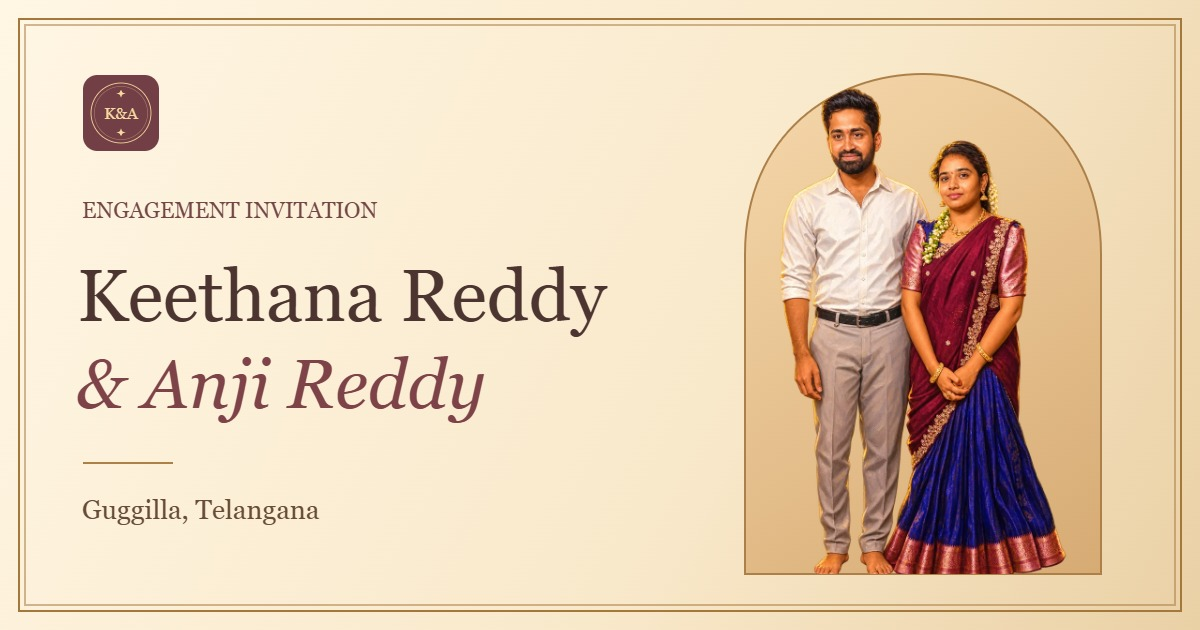
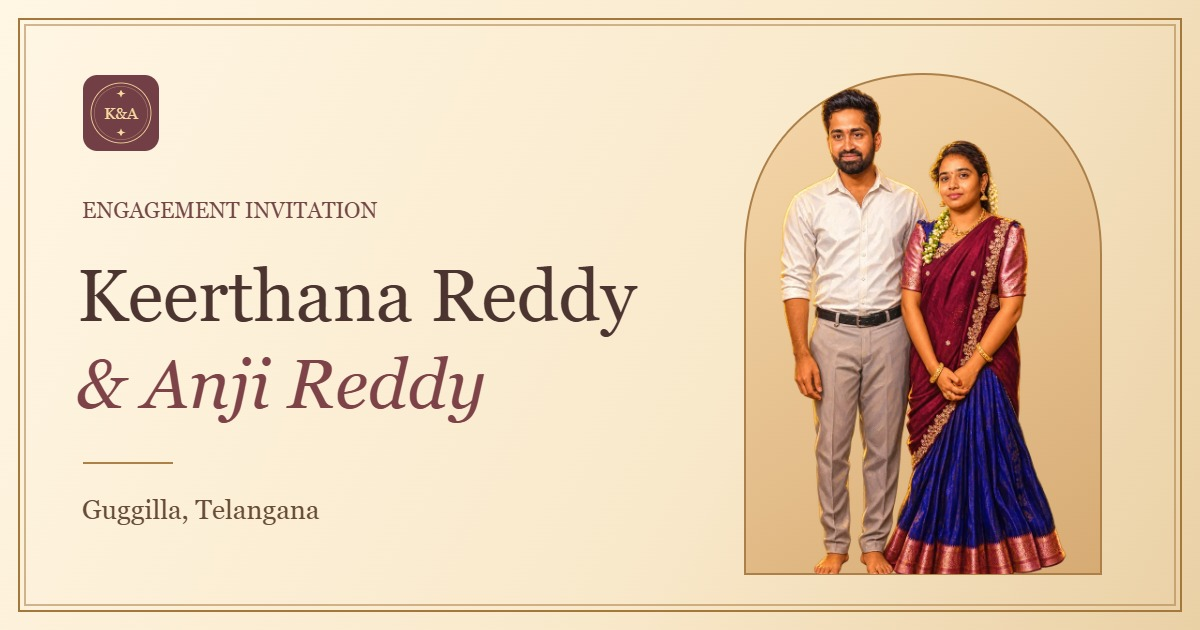
Update invitation names, mobile cover and controls

Changed region(s): [[0.1542, 0.4222, 0.5242, 0.5429]]

diff --git a/src/index.css b/src/index.css
@@ -40,9 +40,44 @@ button:disabled { opacity: .35; cursor: default; }
 .monogram { font: italic 1.6rem var(--serif); color: var(--gold); margin-bottom: 1.4rem; }
 .signature, .story-page time { font: 1.2rem/1.5 var(--serif); }
 .button {
-  display: inline-flex; justify-content: center; align-items: center; min-height: 44px;
-  border-radius: 2px; background: #633d32; color: #fff6e7; padding: .6rem 1.4rem;
+  --rim: #e2c48f87;
+  --icon: #f4d59e;
+  position: relative;
+  display: inline-flex;
+  justify-content: center;
+  align-items: center;
+  gap: .65rem;
+  min-height: 48px;
+  max-width: 100%;
+  padding: .65rem 1.45rem;
+  border: 1px solid #9d733d;
+  border-radius: 2rem;
+  color: #fff6e8;
+  background: linear-gradient(160deg, #8a4d54, #653640 82%);
+  box-shadow: 0 3px 7px #4b2b2326;
+  font: 500 1.08rem/1.2 var(--serif);
 }
+.button::before {
+  content: "";
+  position: absolute;
+  inset: 3px;
+  border: 1px solid var(--rim);
+  border-radius: inherit;
+  pointer-events: none;
+}
+.button svg, .music-button svg { width: 1.2rem; height: 1.2rem; flex: none; }
+.button svg { color: var(--icon); }
+.directions-button {
+  --rim: #bb905957;
+  --icon: #864a43;
+  background: #fff3dd;
+  color: #643c37;
+}
+@media (hover: hover) {
+  .button:hover { --rim: #efd6a4; background: #713c47; }
+  .directions-button:hover { --rim: #b58e61; background: #f4e1bf; }
+}
+.button:active { box-shadow: inset 0 2px 5px #46232240; }
 .paper .button { margin-top: 1.3rem; }
 .stationery { padding: 2.2rem 1.3rem 1rem; text-align: center; }
 .story-page { display: grid; justify-items: center; align-content: center; gap: .85rem; padding-inline: .25rem; }
@@ -81,7 +116,17 @@ button:disabled { opacity: .35; cursor: default; }
 .invite-nav { max-width: 42rem; margin: auto; display: flex; justify-content: space-between; align-items: center; color: var(--paper); }
 .invite-nav nav { display: flex; align-items: center; gap: .9rem; }
 .invite-nav a, .invite-nav button { display: inline-grid; place-items: center; min-height: 44px; }
-.invite-nav button { min-width: 44px; }
+.invite-nav .music-button {
+  width: 44px;
+  height: 44px;
+  border-radius: 50%;
+  color: #f8dfad;
+  background: radial-gradient(circle, #70424a 53%, #cfaa72 55% 57%, transparent 59%);
+}
+.music-button:focus-visible { outline-color: #f8dfad; }
+@media (hover: hover) {
+  .music-button:hover { color: white; background-color: #694d3e; }
+}
 .scroll-sheet { width: min(100%,42rem); margin: auto; padding: 1rem .9rem; }
 .scroll-sheet .story-page { padding: clamp(2rem,6vw,4rem) .55rem; }
 .scroll-sheet .story-page + .story-page { border-top: 1px solid #c5a375; }
@@ -128,11 +173,50 @@ button:disabled { opacity: .35; cursor: default; }
 .blessing-leaf p { color: #704634; font-family: var(--serif); }
 .cover .paper { padding-top: clamp(4rem, 14vw, 6rem); }
 .cover-rings { width: 100%; height: clamp(12rem, 33svh, 21rem); object-fit: contain; }
+@media (orientation: landscape) and (max-height: 500px) {
+  .cover .paper {
+    display: grid;
+    grid-template-columns: repeat(2, minmax(0, 1fr));
+    grid-template-areas: "art initials" "art title" "art open";
+    align-items: center;
+    gap: .4rem 1rem;
+    width: min(100%, 38rem);
+    padding: clamp(2rem, 10svh, 3rem) 1.25rem 1rem;
+  }
+  .cover .paper::after { height: 2rem; }
+  .cover .cover-rings { grid-area: art; height: min(55svh, 12rem); margin: 0; }
+  .cover .monogram { grid-area: initials; align-self: end; margin: 0; }
+  .cover h1 { grid-area: title; font-size: clamp(1.6rem, 8svh, 2.4rem); margin: 0; }
+  .cover .button { grid-area: open; place-self: start center; margin: 0; }
+}
+
 .scene-art { display: block; width: 100%; mix-blend-mode: multiply; }
 .ceremony-art { max-height: 13rem; object-fit: cover; object-position: center 66%; mask-image: linear-gradient(transparent,black 18%,black 88%,transparent); }
 .pavilion-art { height: clamp(9rem, 26svh, 14rem); object-fit: cover; object-position: center bottom; mask-image: linear-gradient(transparent,black 24%); }
 .venue-map { width: 100%; }
-.venue-map summary { display: list-item; width: fit-content; min-height: 44px; margin: auto; cursor: pointer; padding: .6rem; text-decoration: underline; text-underline-offset: .2rem; }
+.venue-map summary {
+  display: flex;
+  align-items: center;
+  justify-content: center;
+  gap: .6rem;
+  width: fit-content;
+  min-height: 44px;
+  margin: auto;
+  padding: .4rem .85rem;
+  color: #704337;
+  cursor: pointer;
+  font: 1rem/1.3 var(--serif);
+}
+.venue-map summary::-webkit-details-marker { display: none; }
+.venue-map summary::after {
+  content: "";
+  width: .45rem;
+  height: .45rem;
+  border: solid currentColor;
+  border-width: 0 1.5px 1.5px 0;
+  transform: translateY(-2px) rotate(45deg);
+}
+.venue-map[open] summary::after { transform: translateY(2px) rotate(225deg); }
 
 
 .ring-reveal {

diff --git a/index.html b/index.html
@@ -4,31 +4,31 @@
     <meta charset="UTF-8" />
     <meta name="viewport" content="width=device-width, initial-scale=1, viewport-fit=cover" />
     <meta name="theme-color" content="#733f46" />
-    <title>Keethana Reddy &amp; Anji Reddy | Engagement Invitation</title>
-    <meta name="description" content="Join Keethana Reddy, Anji Reddy, and their families to celebrate their engagement in Guggilla, Bejjanki, Siddipet District, Telangana." />
+    <title>Keerthana Reddy &amp; Anji Reddy | Engagement Invitation</title>
+    <meta name="description" content="Join Keerthana Reddy, Anji Reddy, and their families to celebrate their engagement in Guggilla, Bejjanki, Siddipet District, Telangana." />
     <link rel="icon" type="image/svg+xml" href="%BASE_URL%logo.svg" />
     <link rel="apple-touch-icon" sizes="180x180" href="%BASE_URL%apple-touch-icon.png" />
     <!-- canonical-url -->
     <meta property="og:type" content="website" />
     <meta property="og:locale" content="en_IN" />
     <meta property="og:site_name" content="K&amp;A Engagement Invitation" />
-    <meta property="og:title" content="Keethana Reddy &amp; Anji Reddy | Engagement Invitation" />
+    <meta property="og:title" content="Keerthana Reddy &amp; Anji Reddy | Engagement Invitation" />
     <meta property="og:description" content="Together with our families, we invite you to celebrate our engagement in Guggilla, Telangana." />
     <meta property="og:image" content="%BASE_URL%invitation-share.jpg" />
     <meta property="og:image:type" content="image/jpeg" />
     <meta property="og:image:width" content="1200" />
     <meta property="og:image:height" content="630" />
-    <meta property="og:image:alt" content="K&amp;A engagement invitation with a painted portrait of Keethana Reddy and Anji Reddy." />
+    <meta property="og:image:alt" content="K&amp;A engagement invitation with a painted portrait of Keerthana Reddy and Anji Reddy." />
     <meta name="twitter:card" content="summary_large_image" />
-    <meta name="twitter:title" content="Keethana Reddy &amp; Anji Reddy | Engagement Invitation" />
+    <meta name="twitter:title" content="Keerthana Reddy &amp; Anji Reddy | Engagement Invitation" />
     <meta name="twitter:description" content="Together with our families, we invite you to celebrate our engagement in Guggilla, Telangana." />
     <meta name="twitter:image" content="%BASE_URL%invitation-share.jpg" />
-    <meta name="twitter:image:alt" content="K&amp;A engagement invitation with a painted portrait of Keethana Reddy and Anji Reddy." />
+    <meta name="twitter:image:alt" content="K&amp;A engagement invitation with a painted portrait of Keerthana Reddy and Anji Reddy." />
   </head>
   <body>
     <div id="root"></div>
     <noscript>
-      <h1>Keethana Reddy &amp; Anji Reddy’s engagement invitation</h1>
+      <h1>Keerthana Reddy &amp; Anji Reddy’s engagement invitation</h1>
       <p>Our families invite you to celebrate with us in Guggilla, Bejjanki, Siddipet District, Telangana.</p>
     </noscript>
     <script type="module" src="/src/main.jsx"></script>

diff --git a/src/App.jsx b/src/App.jsx
@@ -46,7 +46,12 @@ function ScrollingInvitation({ playing, onMusic }) {
         <a href="#couple">{monogram}</a>
         <nav aria-label="Invitation sections">
           <a href="#ceremony">Ceremony</a><a href="#venue">Venue</a>
-          <button aria-label={playing ? 'Pause music' : 'Play music'} onClick={onMusic}>{playing ? '♫ Ⅱ' : '♫ ▷'}</button>
+          <button type="button" className="music-button" aria-label={playing ? 'Pause music' : 'Play music'} onClick={onMusic}>
+            <svg aria-hidden="true" focusable="false" viewBox="0 0 24 24" fill="none" stroke="currentColor" strokeWidth="1.6" strokeLinecap="round" strokeLinejoin="round">
+              <path d="M11 5 6 9H3v6h3l5 4z" />
+              {playing ? <path d="M15 9a4 4 0 0 1 0 6m2.8-8.8a8 8 0 0 1 0 11.6" /> : <path d="m16 9 5 6m0-6-5 6" />}
+            </svg>
+          </button>
         </nav>
       </header>
       <div className="scroll-sheet stationery">
@@ -73,7 +78,13 @@ function ScrollingInvitation({ playing, onMusic }) {
           <p className="script-label">The venue</p>
           <h2>{invitation.location}</h2>
           <address>{invitation.district}</address>
-          <a className="button" href={invitation.directions} target="_blank" rel="noreferrer">Get directions</a>
+          <a className="button directions-button" href={invitation.directions} target="_blank" rel="noreferrer">
+            <svg aria-hidden="true" focusable="false" viewBox="0 0 24 24" fill="none" stroke="currentColor" strokeWidth="1.6" strokeLinecap="round" strokeLinejoin="round">
+              <path d="M19.5 10c0 5.1-7.5 11.2-7.5 11.2S4.5 15.1 4.5 10a7.5 7.5 0 1 1 15 0Z" />
+              <circle cx="12" cy="10" r="2.5" />
+            </svg>
+            Get directions
+          </a>
           <PaintedScene src={pavilion} className="scene-art pavilion-art" />
           <details className="venue-map">
             <summary>View venue map</summary>
@@ -145,7 +156,13 @@ export default function App() {
               <div className="monogram" aria-hidden="true">{monogram}</div>
               <h1>Engagement<br /><em>Invitation</em></h1>
               <img className="cover-rings" src={joinedHands} width="640" height="800" alt="Painted hands clasped together, with a gold engagement ring and jasmine bangles" />
-              <button className="button" onClick={openInvitation}>Open invitation</button>
+              <button type="button" className="button" onClick={openInvitation}>
+                <svg aria-hidden="true" focusable="false" viewBox="0 0 24 24" fill="none" stroke="currentColor" strokeWidth="1.6" strokeLinecap="round" strokeLinejoin="round">
+                  <rect x="2.5" y="5" width="19" height="14" rx="2" />
+                  <path d="m3.5 6.5 8.5 6 8.5-6" />
+                </svg>
+                Open invitation
+              </button>
             </m.div>
           </m.section>
         )}

diff --git a/src/event.js b/src/event.js
@@ -1,8 +1,8 @@
 export const invitation = {
-  names: ['Keethana Reddy', 'Anji Reddy'],
+  names: ['Keerthana Reddy', 'Anji Reddy'],
   families: [
-    { child: 'Keethana Reddy', relationship: 'daughter', parents: 'Veerareddy and Kavitha' },
-    { child: 'Anji Reddy', relationship: 'son', parents: 'Thirupathi Reddy and Rajitha' },
+    { child: 'Keerthana Reddy', relationship: 'daughter', parents: 'Kedika Veera Reddy and Kavitha' },
+    { child: 'Anji Reddy', relationship: 'son', parents: 'Dhushetty Thirupathi Reddy and Rajitha' },
   ],
   location: 'Guggilla, Bejjanki',
   district: 'Siddipet District, Telangana 505528',
